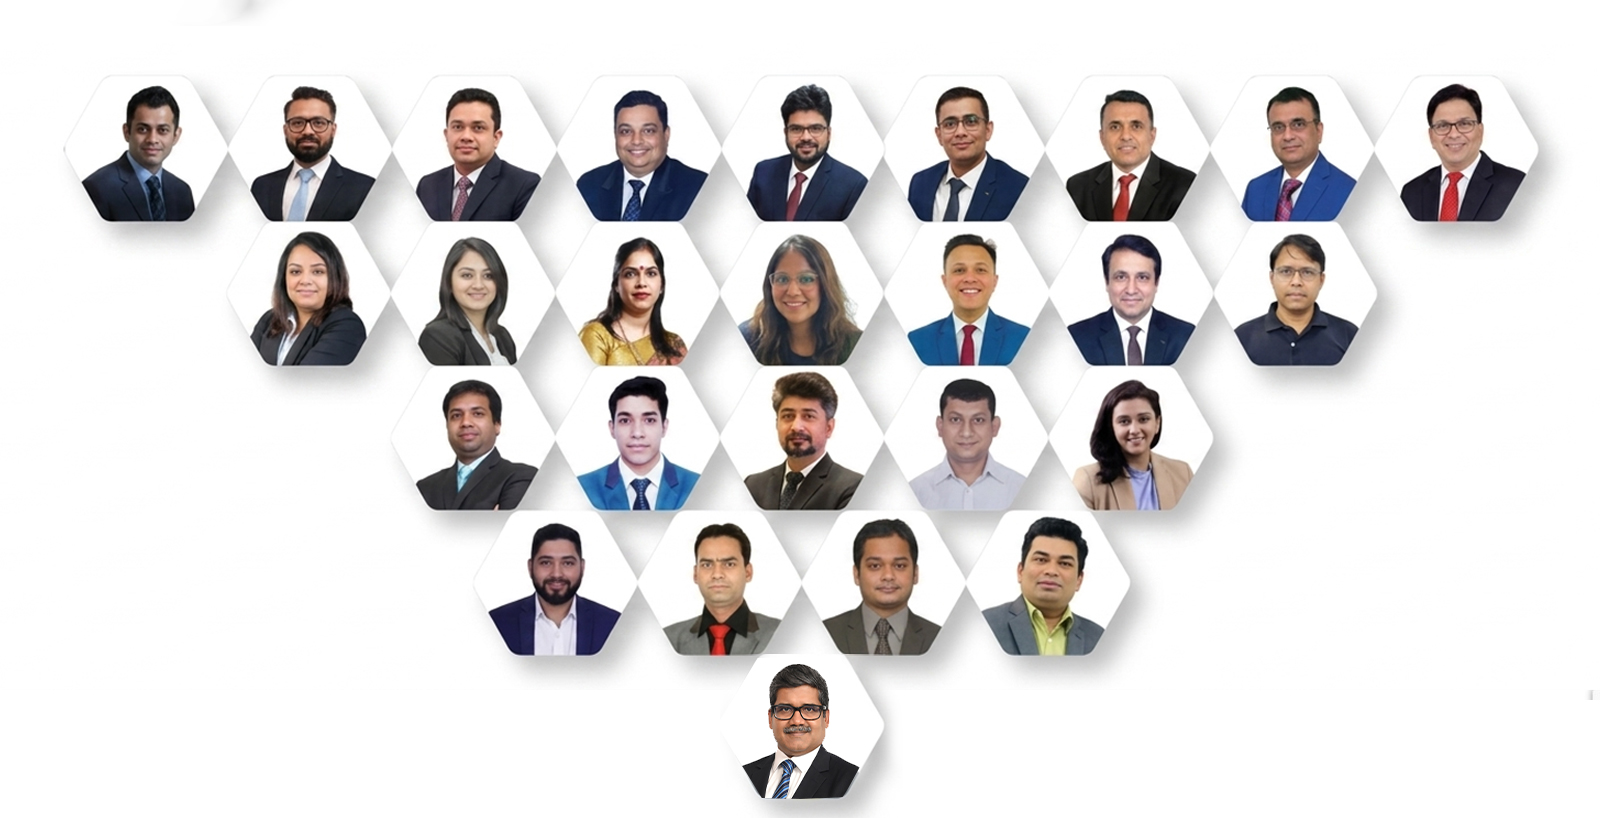
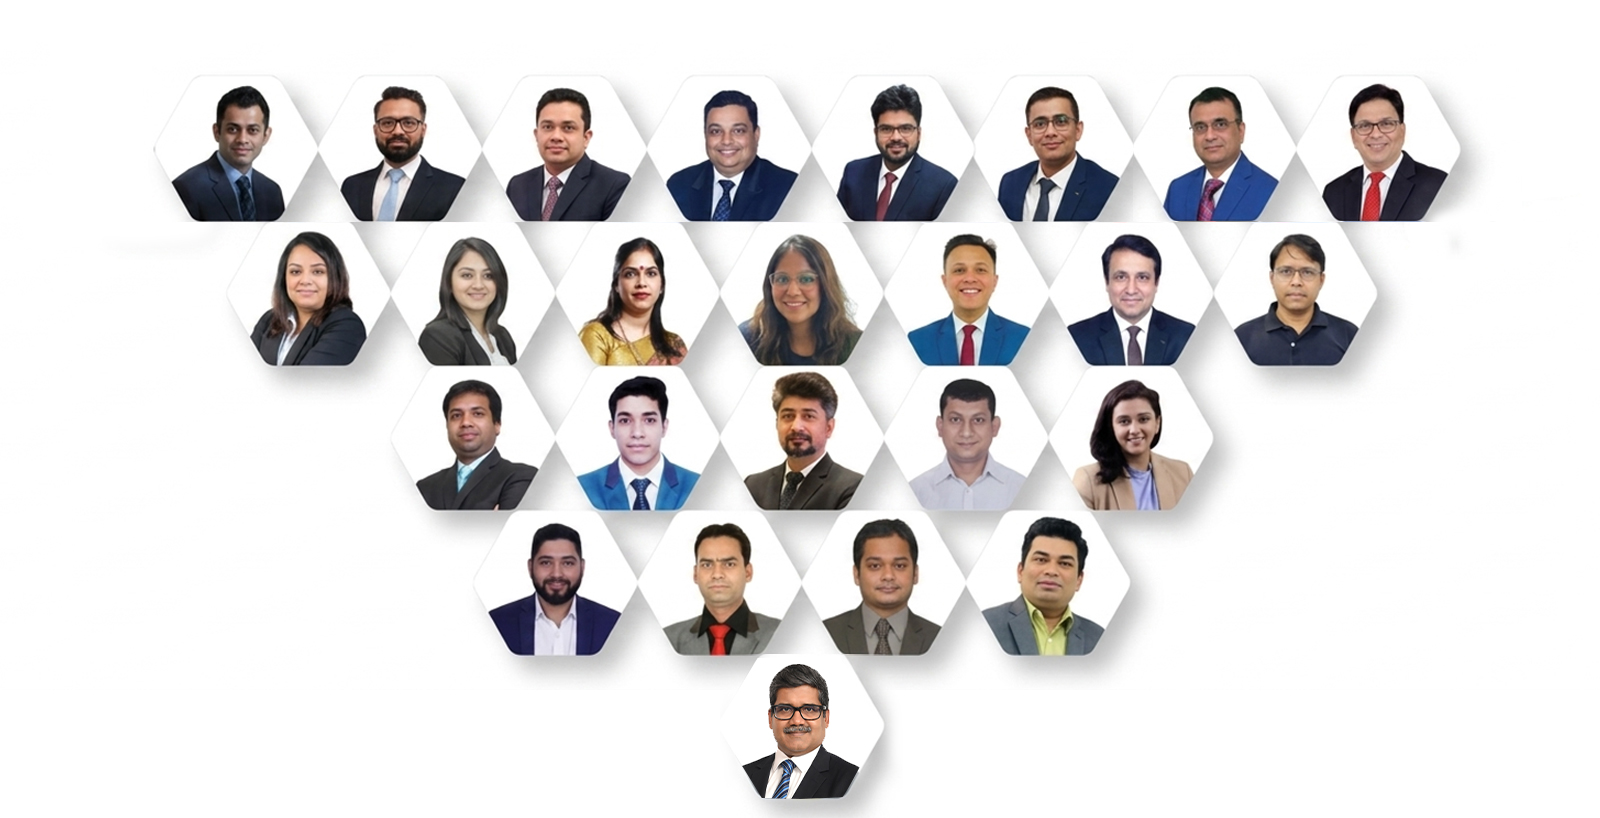
Removed Removed hariprakash pandey's profile from the neoliv website

Changed region(s): [[0.0312, 0.0917, 0.9688, 0.3056]]

diff --git a/src/Components/Home/Partners.jsx b/src/Components/Home/Partners.jsx
@@ -49,11 +49,11 @@ const Partners = () => {
       name: "Tej Ingle",
       Description: "Partner",
     },
-    {
-      src: "https://cdn.propstory.com/magicpages/NAME/16iwl4kl6ilwivmrn9Hariprakash.png",
-      name: "Hariprakash Pandey",
-      Description: "Partner",
-    },
+    // {
+    //   src: "https://cdn.propstory.com/magicpages/NAME/16iwl4kl6ilwivmrn9Hariprakash.png",
+    //   name: "Hariprakash Pandey",
+    //   Description: "Partner",
+    // },
     {
       src: "https://cdn.propstory.com/magicpages/NAME/16iwl4kl6ilwivmwrsViral.png",
       name: "Viral Vora",
@@ -183,20 +183,20 @@ const Partners = () => {
         { year: "2023", company: "NeoLiv", completed: true },
       ],
     },
-    {
-      name: "Hariprakash Pandey",
-      about:
-        "Proven track record of 22 years in fund raise, financial business planning, risk management, compliance, taxation.",
-      abouthobby:
-        "Hari likes playing sports and reading books. He is also a coach on finance and investment strategies.",
-      progress: [
-        { year: "2000", company: "Goldstar\u00A0Jewellery", completed: true },
-        { year: "2003", company: "ICS Group ", completed: true },
-        { year: "2005", company: "HDIL", completed: true },
-        { year: "2014", company: "Runwal", completed: true },
-        { year: "2024", company: "NeoLiv", completed: true },
-      ],
-    },
+    // {
+    //   name: "Hariprakash Pandey",
+    //   about:
+    //     "Proven track record of 22 years in fund raise, financial business planning, risk management, compliance, taxation.",
+    //   abouthobby:
+    //     "Hari likes playing sports and reading books. He is also a coach on finance and investment strategies.",
+    //   progress: [
+    //     { year: "2000", company: "Goldstar\u00A0Jewellery", completed: true },
+    //     { year: "2003", company: "ICS Group ", completed: true },
+    //     { year: "2005", company: "HDIL", completed: true },
+    //     { year: "2014", company: "Runwal", completed: true },
+    //     { year: "2024", company: "NeoLiv", completed: true },
+    //   ],
+    // },
     {
       name: "Viral P Vora",
       about:
@@ -400,7 +400,7 @@ const Partners = () => {
           clicked ? "fixed top-0 left-0 h-full w-screen z-50 bg-white" : ""
         }`}
       >
-        <div className="grid grid-cols-3 sm:grid-cols-2 lg:grid-cols-9 gap-0 mx-10">
+        <div className="grid grid-cols-3 sm:grid-cols-2 lg:grid-cols-8 gap-0 mx-10">
           {images.map((image, index) => (
             <div
               key={index}
